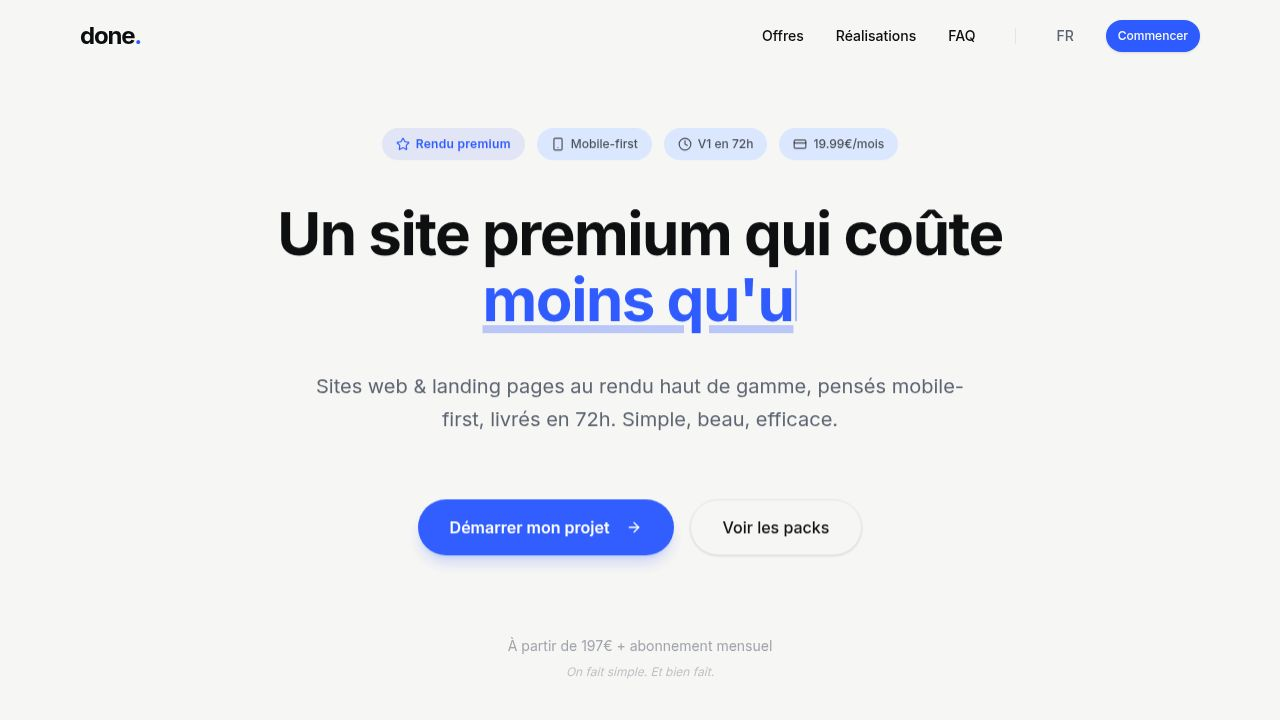
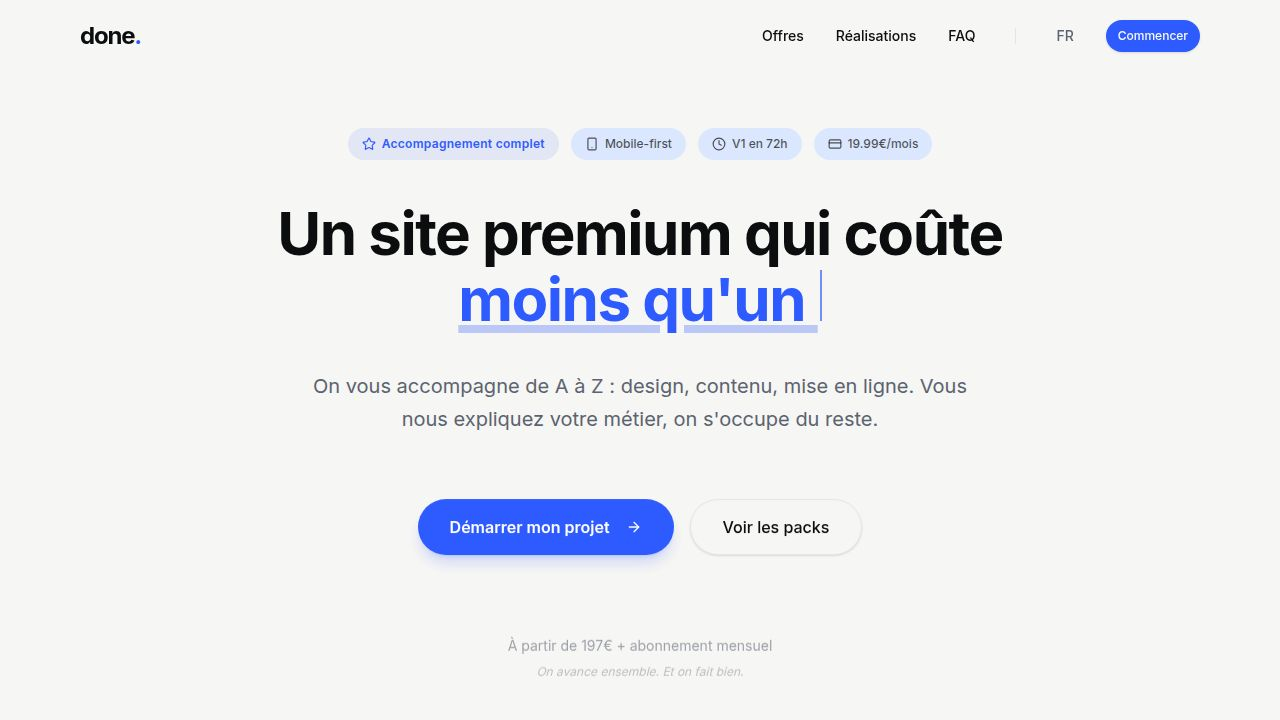
Add Trustpilot reviews to build customer confidence
Integrates a custom Trustpilot rating and review section into the home page, placed strategically before the lead capture wizard, utilizing Framer Motion for scroll animations and displaying the Trustpilot logo, star ratings, and review count.

Replit-Commit-Author: Agent
Replit-Commit-Session-Id: 29cd8734-c7a5-4542-9fbe-eaa808f43315
Replit-Commit-Checkpoint-Type: intermediate_checkpoint
Replit-Commit-Event-Id: c5a00a35-7f7b-4820-9c7a-5bc9897de373
Replit-Commit-Screenshot-Url: https://storage.googleapis.com/screenshot-production-us-central1/45cda848-3f85-4523-bb4f-4df09fe2f5ec/29cd8734-c7a5-4542-9fbe-eaa808f43315/41zIaLv
Replit-Helium-Checkpoint-Created: true

diff --git a/client/src/components/sections/Trustpilot.tsx b/client/src/components/sections/Trustpilot.tsx
@@ -1,0 +1,78 @@
+import { Section } from "@/components/ui/section";
+import { motion } from "framer-motion";
+import { ExternalLink } from "lucide-react";
+
+const TRUSTPILOT_URL = "https://fr-be.trustpilot.com/review/madebydone.be";
+const TRUSTPILOT_SCORE = "5.0";
+const TRUSTPILOT_REVIEW_COUNT = 5;
+
+function TrustpilotStar({ index }: { index: number }) {
+  return (
+    <motion.svg
+      viewBox="0 0 24 24"
+      className="w-7 h-7 md:w-8 md:h-8"
+      fill="none"
+      initial={{ opacity: 0, scale: 0.5 }}
+      whileInView={{ opacity: 1, scale: 1 }}
+      viewport={{ once: true, margin: "-50px" }}
+      transition={{ delay: 0.15 + index * 0.08, duration: 0.4, ease: "easeOut" }}
+    >
+      <rect width="24" height="24" rx="2" fill="#00b67a" />
+      <path
+        d="M12 4l2.35 4.76 5.25.77-3.8 3.7.9 5.23L12 15.77l-4.7 2.69.9-5.23-3.8-3.7 5.25-.77L12 4z"
+        fill="white"
+      />
+    </motion.svg>
+  );
+}
+
+function TrustpilotLogo() {
+  return (
+    <svg viewBox="0 0 126 31" className="h-5 md:h-6" fill="currentColor">
+      <path d="M33.3 11.6h-6.2l-1.9-5.9-1.9 5.9h-6.2l5 3.6-1.9 5.9 5-3.6 5-3.6-1.9-5.9zm-5.4 6l-.5-1.6-3.1 2.2 1.2-3.6-3.1-2.2h3.8l1.2-3.6.5 1.5v7.3z" />
+      <path d="M48.7 10.2h-3.7V7.8h10.1v2.4h-3.7V21h-2.7V10.2zM55.3 11.8h2.3v2h.1c.1-.3.2-.6.4-.9.2-.3.4-.5.7-.7.3-.2.5-.4.8-.5.3-.1.6-.2 1-.2.3 0 .5 0 .6.1v2.4c-.1 0-.3-.1-.5-.1s-.4-.1-.6-.1c-.4 0-.8.1-1.1.3-.3.2-.6.4-.8.7-.2.3-.4.7-.5 1.1-.1.4-.2.9-.2 1.4V21h-2.5V11.8h.3zM68 21h-2.3v-1.3h-.1c-.3.5-.7.9-1.2 1.1-.5.3-1 .4-1.6.4-.9 0-1.6-.2-2.2-.5-.6-.3-1-.8-1.3-1.3-.3-.6-.5-1.2-.7-1.9-.1-.7-.2-1.5-.2-2.3s.1-1.5.2-2.2c.2-.7.4-1.3.8-1.8.3-.5.8-1 1.3-1.3.5-.3 1.2-.5 1.9-.5.3 0 .6 0 .9.1.3.1.6.2.8.3.3.1.5.3.7.5.2.2.4.5.5.7h.1V7.8H68V21zm-6.8-4.4c0 .5.1.9.2 1.3.1.4.3.8.5 1.1.2.3.5.5.8.7.3.2.7.3 1.1.3.4 0 .8-.1 1.1-.3.3-.2.6-.5.8-.8.2-.3.4-.7.5-1.1.1-.4.2-.8.2-1.3 0-.5-.1-.9-.2-1.3-.1-.4-.3-.8-.5-1.1-.2-.3-.5-.6-.8-.8-.3-.2-.7-.3-1.1-.3-.4 0-.8.1-1.1.3-.3.2-.6.4-.8.7-.2.3-.4.7-.5 1.1-.1.4-.2.9-.2 1.4zM75.4 21.2c-.8 0-1.4-.1-2-.4-.6-.3-1-.6-1.4-1.1-.4-.5-.7-1-.9-1.7-.2-.7-.3-1.4-.3-2.1 0-.8.1-1.5.3-2.1.2-.7.5-1.2.9-1.7.4-.5.8-.8 1.4-1.1.5-.3 1.2-.4 1.9-.4.8 0 1.4.1 2 .4.5.3 1 .7 1.3 1.2.3.5.6 1 .7 1.7.2.6.2 1.3.2 2v.7h-6.1c0 .4.1.7.2 1.1.1.3.3.6.5.9.2.3.5.4.8.6.3.1.7.2 1.1.2.5 0 1-.1 1.3-.4.4-.3.6-.6.8-1l2 .9c-.3.8-.9 1.4-1.6 1.8-.6.3-1.4.5-2.3.5h.2zm2.2-5.6c0-.3-.1-.6-.2-.9-.1-.3-.2-.6-.4-.8-.2-.2-.4-.4-.7-.6-.3-.1-.6-.2-1-.2s-.7.1-1 .2c-.3.1-.5.3-.7.6-.2.2-.3.5-.4.8-.1.3-.2.6-.2.9h4.6zM80.9 11.8h2.3v1.5h.1c.3-.6.8-1 1.3-1.3.5-.3 1.1-.4 1.7-.4.7 0 1.2.1 1.7.4.5.2.8.6 1.1 1 .4-.5.8-.8 1.4-1.1.5-.2 1.1-.4 1.6-.4.5 0 1 .1 1.4.2.4.2.8.4 1.1.7.3.3.5.7.7 1.2.2.5.2 1 .2 1.6V21h-2.5v-5.3c0-.3 0-.6-.1-.8 0-.2-.1-.5-.3-.6-.1-.2-.3-.3-.5-.4-.2-.1-.5-.1-.8-.1-.7 0-1.2.2-1.5.6-.3.4-.5 1-.5 1.7V21h-2.5v-5.4c0-.6-.1-1.1-.4-1.4-.3-.3-.6-.5-1.2-.5-.3 0-.6.1-.9.2-.3.1-.5.3-.7.5-.2.2-.3.5-.4.8-.1.3-.1.7-.1 1V21h-2.5V11.8h.2zM97.5 7.8h2.5V21h-2.5V7.8zM101.8 11.8h2.5V21h-2.5v-9.2zm1.2-4.5c.4 0 .8.2 1.1.4.3.3.4.6.4 1s-.2.8-.4 1c-.3.3-.7.4-1.1.4-.4 0-.8-.2-1-.4-.3-.3-.4-.6-.4-1s.2-.8.4-1c.3-.3.6-.4 1-.4zM108.3 11.8h2.3v1.5h.1c.3-.6.8-1 1.3-1.3.5-.3 1.1-.4 1.7-.4.7 0 1.2.1 1.7.3.5.2.9.6 1.2 1 .3.4.5.9.7 1.5.1.6.2 1.2.2 1.9 0 .6-.1 1.2-.2 1.8-.1.6-.4 1.1-.7 1.5-.3.4-.7.8-1.2 1-.5.3-1 .4-1.7.4-.3 0-.6 0-.9-.1-.3-.1-.6-.2-.8-.3-.3-.1-.5-.3-.7-.5-.2-.2-.4-.5-.5-.7h-.1V24h-2.5V11.8h.1zm6.8 4.5c0-.4-.1-.9-.2-1.3-.1-.4-.3-.8-.5-1.1-.2-.3-.5-.5-.8-.7-.3-.2-.7-.3-1.1-.3-.8 0-1.4.3-1.9.9-.4.6-.7 1.4-.7 2.4 0 .5.1 1 .2 1.4.1.4.3.8.5 1.1.2.3.5.5.8.7.3.2.7.3 1.1.3.4 0 .8-.1 1.1-.3.3-.2.6-.4.8-.7.2-.3.3-.7.5-1.1.1-.4.2-.9.2-1.3zM118.9 7.8h2.5v5.5h.1c.3-.6.8-1 1.3-1.3.5-.3 1.1-.4 1.7-.4.7 0 1.2.1 1.7.3.5.2.9.6 1.2 1 .3.4.5.9.7 1.5.1.6.2 1.2.2 1.9 0 .6-.1 1.2-.2 1.8-.1.6-.4 1.1-.7 1.5-.3.4-.7.8-1.2 1-.5.3-1 .4-1.7.4-.3 0-.6 0-.9-.1-.3-.1-.6-.2-.8-.3-.3-.1-.5-.3-.7-.5-.2-.2-.4-.5-.5-.7h-.1V21h-2.3V7.8h-.2zm6.8 8.5c0-.4-.1-.9-.2-1.3-.1-.4-.3-.8-.5-1.1-.2-.3-.5-.5-.8-.7-.3-.2-.7-.3-1.1-.3-.8 0-1.4.3-1.9.9-.4.6-.7 1.4-.7 2.4 0 .5.1 1 .2 1.4.1.4.3.8.5 1.1.2.3.5.5.8.7.3.2.7.3 1.1.3.4 0 .8-.1 1.1-.3.3-.2.6-.4.8-.7.2-.3.3-.7.5-1.1.1-.4.2-.9.2-1.3z" />
+    </svg>
+  );
+}
+
+export function Trustpilot() {
+  return (
+    <Section className="py-10 md:py-14">
+      <motion.a
+        href={TRUSTPILOT_URL}
+        target="_blank"
+        rel="noopener noreferrer"
+        className="group flex flex-col items-center gap-4 md:gap-5 max-w-md mx-auto text-center"
+        data-testid="link-trustpilot"
+        initial={{ opacity: 0, y: 20 }}
+        whileInView={{ opacity: 1, y: 0 }}
+        viewport={{ once: true, margin: "-50px" }}
+        transition={{ duration: 0.5, ease: "easeOut" }}
+      >
+        <div className="flex items-center gap-1.5 text-muted-foreground/60">
+          <span className="text-xs tracking-widest uppercase font-medium">Avis vérifiés sur</span>
+          <TrustpilotLogo />
+        </div>
+
+        <div className="flex items-center gap-1">
+          {[0, 1, 2, 3, 4].map((i) => (
+            <TrustpilotStar key={i} index={i} />
+          ))}
+        </div>
+
+        <div className="space-y-1">
+          <p className="text-2xl md:text-3xl font-bold" data-testid="text-trustpilot-score">
+            {TRUSTPILOT_SCORE}<span className="text-muted-foreground/50 text-lg font-normal">/5</span>
+          </p>
+          <p className="text-sm text-muted-foreground" data-testid="text-trustpilot-count">
+            Basé sur {TRUSTPILOT_REVIEW_COUNT} avis
+          </p>
+        </div>
+
+        <span className="inline-flex items-center gap-1.5 text-sm text-accent font-medium group-hover:underline underline-offset-2 transition-colors">
+          Voir les avis <ExternalLink className="w-3.5 h-3.5" />
+        </span>
+      </motion.a>
+    </Section>
+  );
+}

diff --git a/client/src/pages/Home.tsx b/client/src/pages/Home.tsx
@@ -12,6 +12,7 @@ import { Realizations } from "@/components/sections/Realizations";
 import { Options } from "@/components/sections/Options";
 import { FAQ } from "@/components/sections/FAQ";
 import { Contact } from "@/components/sections/Contact";
+import { Trustpilot } from "@/components/sections/Trustpilot";
 import { Section } from "@/components/ui/section";
 import { FadeIn } from "@/components/ui/fade-in";
 import { SkeletonSection } from "@/components/ui/skeleton-section";
@@ -48,6 +49,7 @@ export default function Home() {
         <Problem />
         <Realizations />
         <Why />
+        <Trustpilot />
         
         <Section id="wizard" className="bg-accent/5 border-y border-accent/20 py-16 md:py-20">
           <FadeIn className="text-center mb-10">